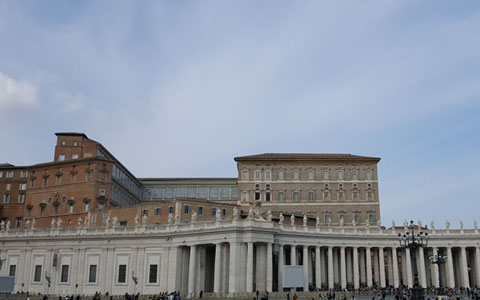
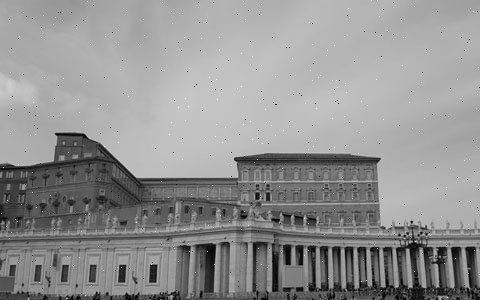
end p.m.

diff --git a/4_CV/chap07/08_2.edge_canny.py b/4_CV/chap07/08_2.edge_canny.py
@@ -1,0 +1,37 @@
+# import numpy as np, cv2
+
+# def on_trackbar(val):
+#     # 트랙바에서 임곗값을 가져옴
+    
+#     low_threshold = cv2.getTrackbarPos('Low Threshold', 'Canny Edge Detection')
+#     high_threshold = cv2.getTrackbarPos('High Threshold', 'Canny Edge Detection')
+    
+#     # Canny Edge Detection 적용
+#     edges = cv2.Canny(gray, low_threshold, high_threshold)
+    
+#     # 결과 이미지 표시
+#     cv2.imshow('Canny Edge Detection', edges)
+
+# image = cv2.imread("4_CV/chap07/images/cannay_tset.jpg", cv2.IMREAD_GRAYSCALE)
+# if image is None: raise Exception("영상 파일 읽기 오류")
+
+# # 그레이스케일로 변환
+# # gray = cv2.cvtColor(image, cv2.COLOR_BGR2GRAY)
+
+# # 윈도우 생성
+# cv2.namedWindow('Canny Edge Detection')
+
+# # 트랙바 생성
+# cv2.createTrackbar('Low Threshold', 'Canny Edge Detection', 0, 1000, on_trackbar)
+# cv2.createTrackbar('High Threshold', 'Canny Edge Detection', 0, 1000, on_trackbar)
+
+# # 초기 임곗값 설정
+# cv2.setTrackbarPos('Low Threshold', 'Canny Edge Detection', 50)
+# cv2.setTrackbarPos('High Threshold', 'Canny Edge Detection', 150)
+
+# # 초기 Canny Edge Detection 수행
+# on_trackbar(0)
+
+# # 키 입력 대기
+# cv2.waitKey(0)
+# cv2.destroyAllWindows()

diff --git a/4_CV/chap07/09.filter_minmax.py b/4_CV/chap07/09.filter_minmax.py
@@ -1,17 +1,24 @@
 import numpy as np, cv2
 
 def minmax_filter(image, ksize, mode):
-   
-
-  
-
-
+    rows, cols = image.shape[:2]
+    dst = np.zeros((rows, cols), np.uint8)
+    center = ksize // 2
+    
+    for i in range(center, rows - center):
+        for j in range(center, cols - center):
+            # 마스크 영역 행렬 처리 방식
+            y1, y2 = i - center, i + center + 1   # 마스크 높이 범위
+            x1, x2 = j - center, j + center + 1   # 마스크 너비 범위
+            mask = image[y1:y2, x1:x2]            # 마스크 영역
+            dst[i, j] = cv2.minMaxLoc(mask)[mode] # 최소 또는 최대값 선택
     return dst
 
-image = cv2.imread("chap07/images/min_max.jpg", cv2.IMREAD_GRAYSCALE)
+image = cv2.imread("4_CV/chap07/images/min_max.jpg", cv2.IMREAD_GRAYSCALE)
 if image is None: raise Exception("영상파일 읽기 오류")
-    
 
+minfilter_img = minmax_filter(image, 3, 0)
+maxfilter_img = minmax_filter(image, 3, 1)
 
 
 cv2.imshow("image", image)

diff --git a/4_CV/chap07/15.dilate.py b/4_CV/chap07/15.dilate.py
@@ -1,17 +1,19 @@
 import numpy as np, cv2
 
 
-image = cv2.imread("chap07/images/morph.jpg", cv2.IMREAD_GRAYSCALE)
+image = cv2.imread("4_CV/chap07/images/morph.jpg", cv2.IMREAD_GRAYSCALE)
 if image is None: raise Exception("영상파일 읽기 오류")
 
-mask = np.array([[0, 1, 0],                         # 마스크 초기화
-                 [1, 1, 1],
-                 [0, 1, 0]]).astype("uint8")
+data = [0, 1, 0,                                               # 마스크 선언 및 초기화
+        1, 1, 1,
+        0, 1, 0]
 
-th_img = 
+mask = np.array(data, np.uint8).reshape(3, 3)
+th_img = cv2.threshold(image, 128, 255, cv2.THRESH_BINARY)[1]   # 영상 이진화
 
-dst2 = cv2.
-# dst2 = cv2.dilate(th_img, mask)
+dst2 = cv2.morphologyEx(th_img, cv2.MORPH_ERODE, mask)         # OpenCV의 침식 함수
 
-cv2.imshow("OpenCV dilate", dst2)
+cv2.imshow("image", image)
+cv2.imshow("binary image", th_img)
+cv2.imshow("OpenCV erode", dst2)
 cv2.waitKey(0)

diff --git a/4_CV/chap07/11.filter_median.py b/4_CV/chap07/11.filter_median.py
@@ -2,20 +2,21 @@ import numpy as np, cv2
 
 
 def salt_pepper_noise(img, n):
-   
-
-
-  
-
+    h, w = img.shape[:2]
+    x, y = np.random.randint(0, w, n), np.random.randint(0, h, n)
+    noise = img.copy()
+    for (x, y) in zip(x, y):
+        noise[y, x] = 0 if np.random.rand() < 0.5 else 255
+    
     return noise
 
-image = cv2.imread("Source/chap07/images/median2.jpg", cv2.IMREAD_GRAYSCALE)
+image = cv2.imread("4_CV/chap07/images/median2.jpg", cv2.IMREAD_GRAYSCALE)
 if image is None: raise Exception("영상파일 읽기 오류")
-    
 
+noise = salt_pepper_noise(image, 500)
+med_img2 = cv2.medianBlur(noise, 3)
 
-
-cv2.imwrite('chap07/images/noise.jpg', noise)
+cv2.imwrite('4_CV/chap07/images/median2.jpg', noise)
 
 cv2.imshow("image", image),
 cv2.imshow("noise", noise),

diff --git a/4_CV/chap07/14.erode.py b/4_CV/chap07/14.erode.py
@@ -1,17 +1,17 @@
 import numpy as np, cv2
 
 
-image = cv2.imread("chap07/images/morph.jpg", cv2.IMREAD_GRAYSCALE)
+image = cv2.imread("4_CV/chap07/images/morph.jpg", cv2.IMREAD_GRAYSCALE)
 if image is None: raise Exception("영상파일 읽기 오류")
 
 data = [0, 1, 0,                                               # 마스크 선언 및 초기화
         1, 1, 1,
         0, 1, 0]
 
-mask = 
-th_img = 
+mask = np.array(data, np.uint8).reshape(3, 3)
+th_img = cv2.threshold(image, 128, 255, cv2.THRESH_BINARY)[1]   # 영상 이진화
 
-dst2 = 
+dst2 = cv2.erode(th_img, mask)
 # dst2 = cv2.morphologyEx(th_img, cv2.MORPH_ERODE, mask)         # OpenCV의 침식 함수
 
 cv2.imshow("image", image)

diff --git a/4_CV/chap07/10.filter_average.py b/4_CV/chap07/10.filter_average.py
@@ -1,11 +1,10 @@
 import numpy as np, cv2
 
-image = cv2.imread("Source/chap07/images/filter_avg.jpg", cv2.IMREAD_GRAYSCALE)
+image = cv2.imread("4_CV/chap07/images/filter_avg.jpg", cv2.IMREAD_GRAYSCALE)
 if image is None: raise Exception("영상파일 읽기 오류")
 
-  
-
-
+blur_img = cv2.blur(image, (5, 5), borderType=cv2.BORDER_CONSTANT)
+box_img = cv2.boxFilter(image, ddepth=-1, ksize=(5, 5))
 
 cv2.imshow("image", image),
 cv2.imshow("blur_img", blur_img)

diff --git a/4_CV/chap07/08.edge_canny.py b/4_CV/chap07/08.edge_canny.py
@@ -1,10 +1,9 @@
 import numpy as np, cv2
 
-image = cv2.imread("Source/chap07/images/canny.jpg", cv2.IMREAD_GRAYSCALE)
+image = cv2.imread("4_CV/chap07/images/canny.jpg", cv2.IMREAD_GRAYSCALE)
 if image is None: raise Exception("영상 파일 읽기 오류")
 
-
-             # OpenCV 캐니 에지
+canny2 = cv2.Canny(image, 100, 150)  # OpenCV Canny 에지
 
 cv2.imshow("image", image)
 cv2.imshow("OpenCV_Canny", canny2)           # OpenCV 캐니 에지
